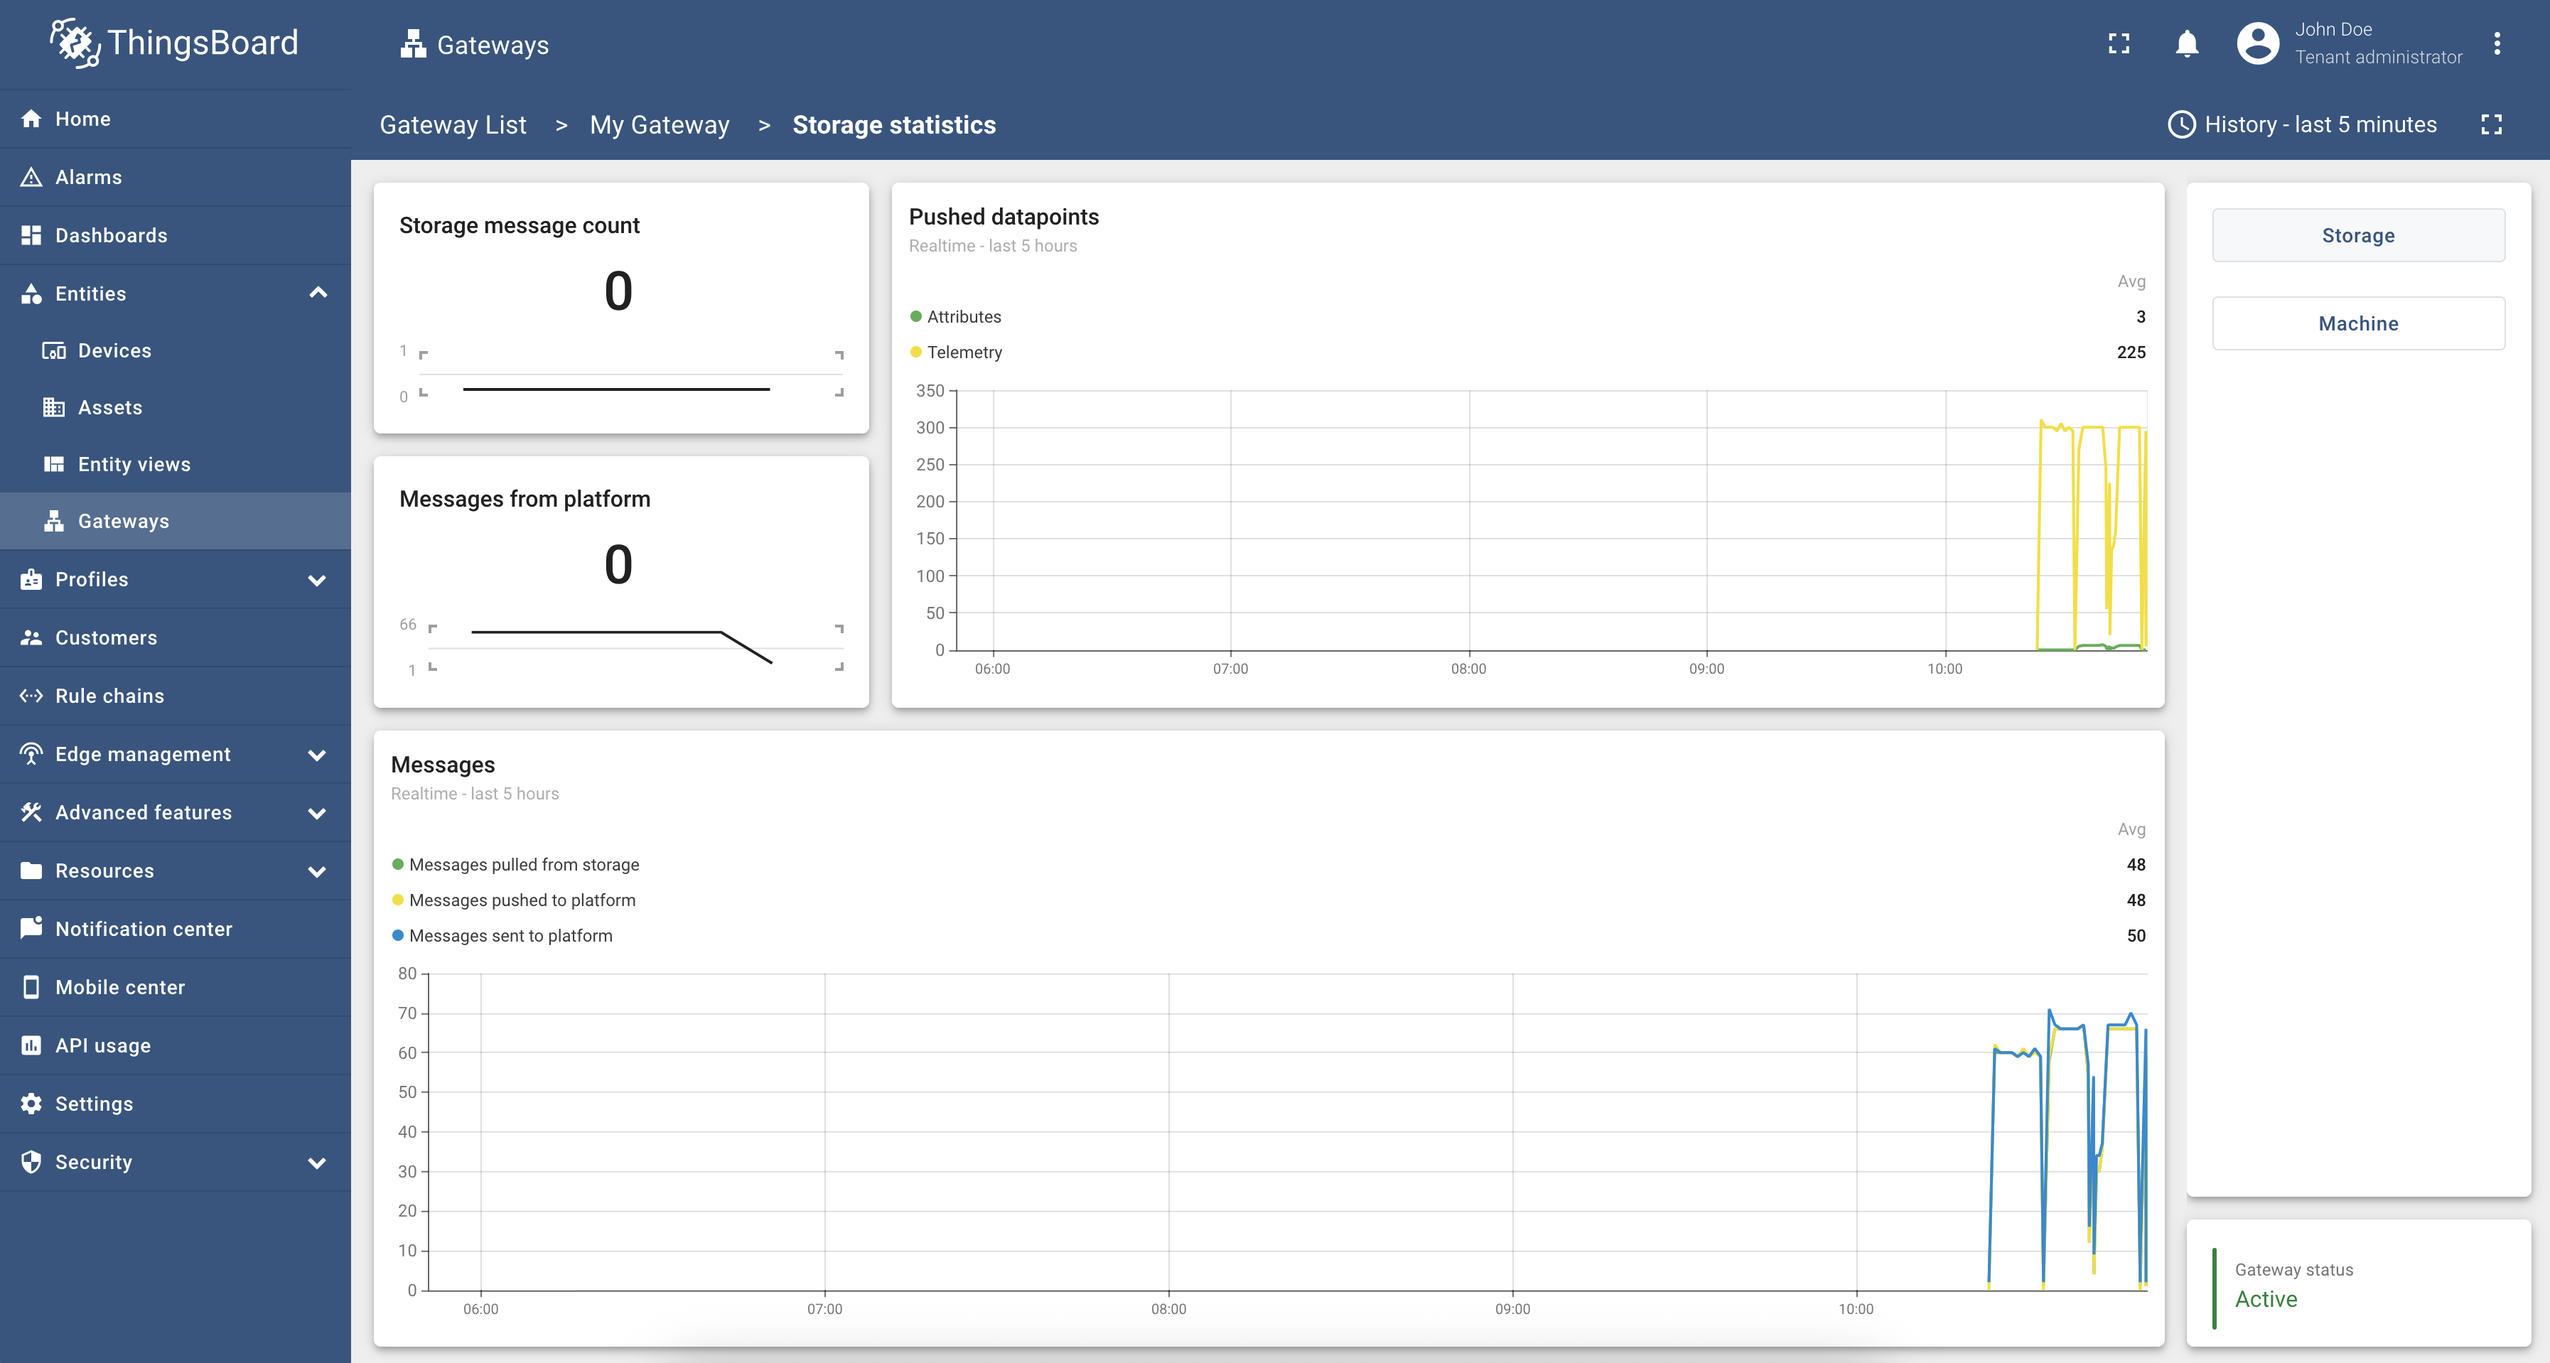
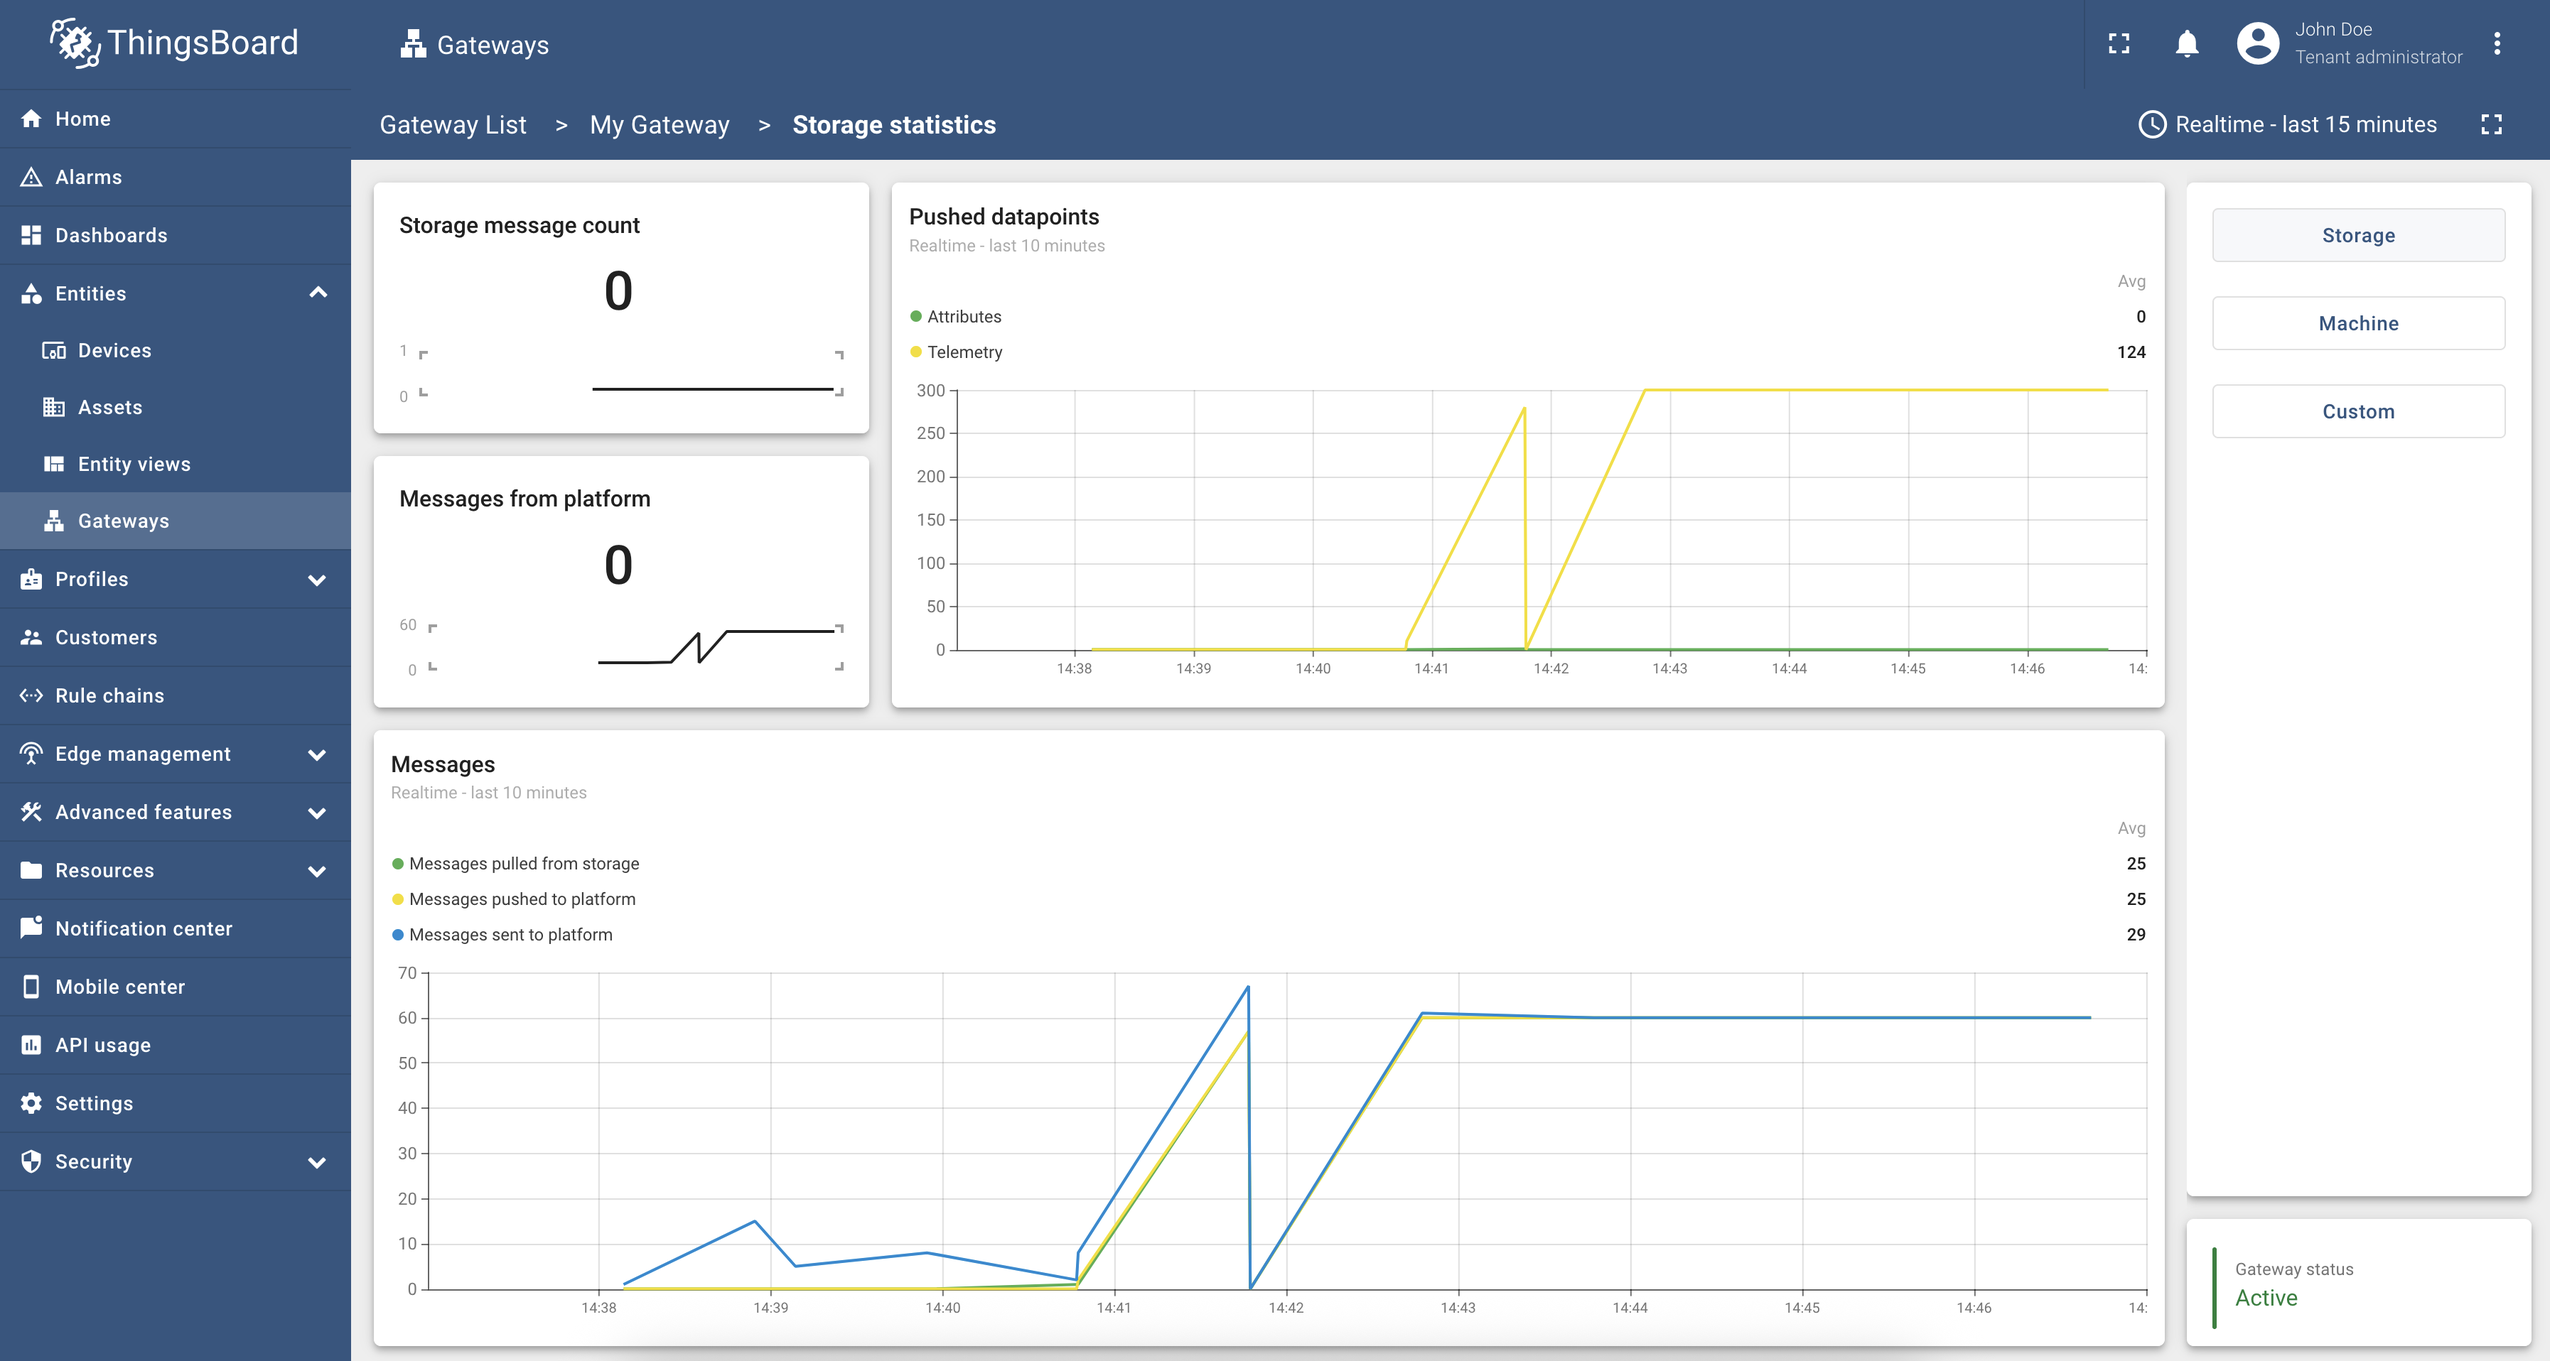
Small fixes

diff --git a/docs/iot-gateway/guides/how-to-enable-remote-configuration.md b/docs/iot-gateway/guides/how-to-enable-remote-configuration.md
@@ -33,15 +33,15 @@ In order to remotely manage gateways, you need to go to the "**Entities**" > "**
 the ThingsBoard.
 
 Gateway list page displays all your gateways and all the necessary details about them, namely:
-- Date and time of creation;
-- Name of the gateway;
-- Status (Active/Inactive);
-- Number of enabled connectors;
+- Date and time of creation.
+- Name of the gateway.
+- Status (Active/Inactive).
+- Number of enabled connectors.
 - Gateway version.
 
 And also navigation elements:
-- **Launch command** - when clicked, a modal window opens with a command to launch the gateway;
-- **Gateway configuration** - when clicked, a modal window with general gateway settings opens;
+- **Launch command** - when clicked, a modal window opens with a command to launch the gateway.
+- **Gateway configuration** - when clicked, a modal window with general gateway settings opens.
 - **Connectors** - when clicked, a page for managing and configuring connectors opens.
 - **Delete gateway** - when clicked, a gateway deletion confirmation modal window opens.
 
@@ -49,7 +49,7 @@ On this page, you can create a new gateway, as well as sort them according to th
 
 ![](/images/gateway/dashboard/gateway-dashboard-list.png)
 
-### Gateway Detailed Page
+### Gateway Info Page
 
 If you select a gateway and click on it, you will be transferred to the page of the selected gateway.
 
@@ -57,51 +57,52 @@ If you select a gateway and click on it, you will be transferred to the page of 
 
 The dashboard consists of 4 main widgets:
 - **General gateway information**, which consists of the following cards:
-   - Status (Active/Inactive);
-   - Name of the gateway;
-   - Type of the gateway;
-   - Devices (Active/Inactive);
-   - Connectors (Enabled/Disabled) with link to Connectors page;
+   - Status (Active/Inactive).
+   - Name of the gateway.
+   - Type of the gateway.
+   - Devices (Active/Inactive).
+   - Connectors (Enabled/Disabled) with link to Connectors page.
    - Errors count with link to Logs page.
 
 ![](/images/gateway/dashboard/gateway-dashboard-cards.png)
 
 - **Devices** is a table that contains basic information about connected devices through the gateway:
-   - Device Name;
-   - Device Type;
-   - Status (Active/Inactive);
-   - Connector Name;
-   - Connector Type;
+   - Device Name.
+   - Device Type.
+   - Status (Active/Inactive).
+   - Connector Name.
+   - Connector Type.
+   - Device info button that opens a modal window with detailed information about the device.
    - As well as elements of filtering and searching for the necessary devices.
 
 ![](/images/gateway/dashboard/gateway-dashboard-devices.png)
 
-- **Alarms** is a standard alarm widget where you will receive all alarms related to selected gateway;
+- **Alarms** is a standard alarm widget where you will receive all alarms related to selected gateway.
 
 ![](/images/gateway/dashboard/gateway-dashboard-alarms.png)
 
 - **Navigation Panel** is a navigation panel on which all other pages for configuring, managing and monitoring the gateway are located, namely:
-   - Launch command - a modal window with an auto-generated command for launching the gateway;
+   - Launch command - a modal window with an auto-generated command for launching the gateway.
   
    ![](/images/gateway/dashboard/gateway-dashboard-launch-command.png)
 
-   - [General configuration](#general-configuration) - page with general gateway settings;
+   - [General configuration](#general-configuration) - page with general gateway settings.
   
    [![](/images/gateway/dashboard/gateway-dashboard-gen-conf-button.png)](#general-configuration)
 
-   - [Connectors configuration](#connector-configuration) - page with management and configuration of connectors;
+   - [Connectors configuration](#connector-configuration) - page with management and configuration of connectors.
   
    [![](/images/gateway/dashboard/gateway-dashboard-connectors-conf-button.png)](#connector-configuration)
 
-   - [Logs](#logs) - a page with various types of logs (it should be noted that the button is active only when **Remote Logging** is enabled on the gateway);
+   - [Logs](#logs) - a page with various types of logs (it should be noted that the button is active only when **Remote Logging** is enabled on the gateway).
   
    [![](/images/gateway/dashboard/gateway-dashboard-logs-button.png)](#logs)
 
-   - [Statistics](#statistics) - a page with general and custom statistics of the gateway;
+   - [Statistics](#statistics) - a page with general and custom statistics of the gateway.
 
    [![](/images/gateway/dashboard/gateway-dashboard-statistics-button.png)](#statistics)
 
-   - [Remote Shell](#remote-shell) - page with Remote Shell (it should be noted that the button is active only when **Remote Shell** is enabled on the gateway);
+   - [Remote Shell](#remote-shell) - page with Remote Shell (it should be noted that the button is active only when **Remote Shell** is enabled on the gateway).
 
    [![](/images/gateway/dashboard/gateway-dashboard-remote-shell-button.png)](#remote-shell)
 
@@ -143,7 +144,7 @@ settings that are not available in Basic mode.
 
 ![](/images/gateway/dashboard/gateway-dashboard-general-configuration-advanced-mode.png)
 
-### Connector Configuration
+### Connectors Configuration
 
 If you click on the **Connectors configuration** button on the gateway page in the **Navigation Panel**, you will be 
 transferred to the **Connectors configuration page**.
@@ -152,16 +153,18 @@ transferred to the **Connectors configuration page**.
 
 The page consists of two main sections:
 - Connectors list - basic information and control elements of all created connectors are displayed here:
-   - Enabled - enable or disable the connector;
-   - Name of connector;
-   - Type of connector;
-   - Configuration status - displays whether the remote configuration is synchronized with the local configuration;
-   - Status of the connector - if it is "green" - there are no errors, and the connector is working correctly. If it is "red" - the connector is not working correctly;
+   - Enabled - enable or disable the connector.
+   - Name of connector.
+   - Type of connector.
+   - Configuration status - displays whether the remote configuration is synchronized with the local configuration.
+   - Status of the connector - if it is "green" - there are no errors, and the connector is working correctly. If it is "red" - the connector is not working correctly.
    - Actions:
-     - RPC - dashboard for sending [RPC through gateway to connector](/docs/iot-gateway/guides/how-to-use-get-set-rpc-methods/);
-     - Logs - dashboard with connector logs;
-     - Delete connectors.
+     - RPC - dashboard for sending RPC through gateway to connector.
+     - Logs - dashboard with connector logs.
+     - Delete connector.
 - Connector configuration - fields for configuring the connector.
+
+Also, you can create a new connector by clicking on the **+** button in the top right corner of the page.
 
 ### Logs
 
@@ -176,8 +179,8 @@ to the Logs page.
 ![](/images/gateway/dashboard/gateway-dashboard-logs.png)
 
 The dashboard displays the main gateway log information in real time (General, Service, Connection, Storage, Extension):
-- Created time;
-- Level;
+- Created time.
+- Level.
 - Message.
 
 ### Statistics
@@ -185,7 +188,8 @@ The dashboard displays the main gateway log information in real time (General, S
 If you click on the **Statistics** button on the gateway page in the **Navigation Panel**, you will be transferred
 to the Statistics page. 
 
-In the right sidebar you can switch between **Storage** and **Machine** statistics.
+In the right sidebar you can switch between **Storage**, **Machine** and **Custom** statistics.
+Also, you can check gateway status in the real time in the bottom right corner of the page.
 
 #### Storage Statistics
 
@@ -208,6 +212,15 @@ Machine statistics display information about the gateway machine performance. Th
 - Disk usage - displays the current Disk usage percentage of the gateway machine.
 
 ![](/images/gateway/dashboard/gateway-dashboard-machine-statistics.png)
+
+#### Custom Statistics
+
+Custom statistics display user-defined statistics of the gateway. You can add custom statistics in the 
+**Statistics** tab on **General configuration** page or by clicking on **Create new** button in 
+the "**Time series name**" field. Depends on the added custom statistics, the page will consist of different widgets:
+char widgets for numerical statistics and table widgets for string statistics.
+
+![](/images/gateway/dashboard/gateway-dashboard-custom-statistics.png)
 
 ### Remote Shell
 
@@ -232,10 +245,10 @@ to the Gateway RPC sending page.
 
 The page consists of 3 widgets:
 - Service RPC - for sending RPC and viewing the result of command execution:
-   - Command - [service gateway RPC](/docs/iot-gateway/guides/how-to-use-gateway-rpc-methods/) (Ping, Stats, Devices, Update, Version, Restart, Reboot);
-   - Timeout - command execution time;
+   - Command - [service gateway RPC](/docs/iot-gateway/guides/how-to-use-gateway-rpc-methods/) (Ping, Stats, Devices, Update, Version, Restart, Reboot).
+   - Timeout - command execution time.
    - Response - the result of executing the sent command.
-- RPS Logs - displays gateway logs when processing the sent RPC;
+- RPS Logs - displays gateway logs when processing the sent RPC.
 - RPC debug terminal - widget for debugging gateway RPCs.
 
 ## Next steps

diff --git a/_includes/templates/iot-gateway/gateway-dashboard-other-conf.md b/_includes/templates/iot-gateway/gateway-dashboard-other-conf.md
@@ -1,10 +1,12 @@
 Other - in this tab, you can configure additional gateway parameters:
 - Checking device activity - enables monitoring the activity of each connected device:
-  - Inactivity timeout - device inactivity time after which the gateway will disconnect the device;
-  - Inactivity check period - periodicity of device activity check.
-- Advanced - configure the following parameters only if you know what you are doing:
-  - Min pack send delay - delay between sending packets (Decreasing this setting results in increased CPU usage);
-  - QoS - quality of Service in MQTT messaging (0 - at most once, 1 - at least once);
-  - Check connectors' configuration - the period of time when the configuration of the connectors will be checked for a change.
+  - Inactivity timeout (in seconds) - device inactivity time after which the gateway will disconnect the device.
+  - Inactivity check period (in seconds) - periodicity of device activity check.
+- Advanced - additional gateway settings:
+  - Min pack send delay (in milliseconds) - delay between sending packets (Decreasing this setting results in increased CPU usage).
+  - QoS - quality of Service in MQTT messaging (0 - at most once, 1 - at least once).
+  - Check connectors' configuration (in seconds) - the period of time when the configuration of the connectors will be checked for a change.
+  - Max payload size in bytes-defines the largest message the gateway can process at once, ensuring stable performance and preventing oversized data from causing errors.
+  - Min packet size to send-defines the smallest message size the gateway will transmit, preventing the sending of packets that are too small or incomplete.
 
 ![](/images/gateway/dashboard/gateway-dashboard-other-conf.png)

diff --git a/_includes/templates/iot-gateway/gateway-dashboard-logs-conf.md b/_includes/templates/iot-gateway/gateway-dashboard-logs-conf.md
@@ -1,4 +1,4 @@
-Logs - a tab for setting local and [remote logs](/docs/iot-gateway/guides/how-to-enable-remote-logging/), which consists of 3 main sections:
+Logs - a tab for setting local and remote logs, which consists of 3 main sections:
 - General log settings - the usual settings for the Python [logging](https://docs.python.org/3.8/library/logging.config.html) module are used here:
   - Date format - date format of log message.
   - Log format - log message format.
@@ -6,8 +6,8 @@ Logs - a tab for setting local and [remote logs](/docs/iot-gateway/guides/how-to
   - Remote logs - enables remote logging and logs reading from the gateway.
   - Log level.
 - Local logging - for configuring local loggers (Service, Connector, Converter, TB Connection, Storage, Extension):
-  - Log level.
-  - File path.
+  - Log level - logging level for each local logger: INFO, DEBUG, WARNING, ERROR, CRITICAL, TRACE, NONE.
+  - File path - path to the log folder.
   - Log saving period.
   - Backup count - if **Backup count** is > 0, when a rollover is done, no more than **Backup count** files are kept - the oldest ones are deleted.
 

diff --git a/_includes/templates/iot-gateway/gateway-dashboard-general-conf.md b/_includes/templates/iot-gateway/gateway-dashboard-general-conf.md
@@ -1,8 +1,8 @@
 General - this tab contains the main settings, namely:
 - Remote Configuration - enables remote configuration and management of the gateway.
 - Remote Shell - enables remote control of the operating system with the gateway from the Remote Shell widget.
-- ThingsBoard host - hostname or IP address of ThingsBoard server.
-- ThingsBoard port - port of MQTT service on ThingsBoard server.
+- Platform host - hostname or IP address of platform server.
+- Platform port - port of MQTT service on platform server.
 - Security type (you can read more about them [here](/docs/iot-gateway/configuration/#subsection-security)) - currently 3 types of security are supported for remote configuration:
   - Access Token.
   - TLS + Access Token.
